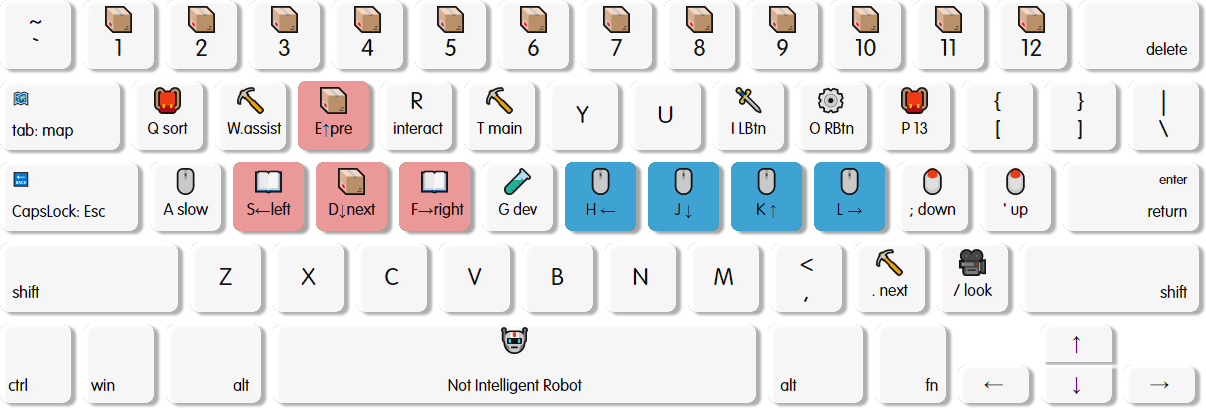
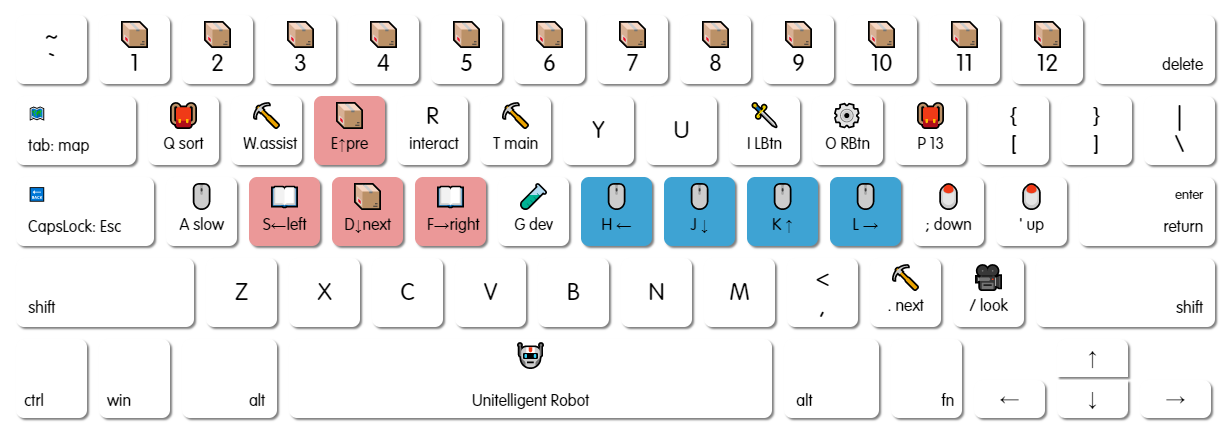
output  origin keyboard png from dom.element, and write readme

Changed region(s): [[0.0, 0.0, 1.0, 1.0], [0.0, 0.4118, 0.0614, 0.4706]]

diff --git a/README.md b/README.md
@@ -25,8 +25,8 @@ git clone https://github.com/miozus/MyTimeAtPortiaKeymap.git
    - GameSetting : write down what you set in game.
    - Keymap : `yourHotkey::function()` , you can define new function in `PortiaFuntions.ahk`
 3. Setting In Game :
-    - [x] Resolution must be `1680 * 1050` at window mode.
-    - [x] Lens inertia must be checked, for move mouse with fluent perfomance.
+   - [x] Resolution must be `1680 * 1050` at window mode.
+   - [x] Lens inertia must be checked, for move mouse with fluent perfomance.
 3. open `Portia.ahk` with Autohotkey.exe ( win32 or x64w ) , run with **Administrator privilige** if hotkey not works in game. ( usually, normal privilige is OK ).
 4. play game ( the order of launcher does not matter ).
 
@@ -34,29 +34,29 @@ git clone https://github.com/miozus/MyTimeAtPortiaKeymap.git
 
 ### 1 🏃♀ Direction
 
-Actor Move Direction:
+Actor Move 4 Directions:
 
 | | Actor| | | | Mouse | |
 |:----: | :----: | :----: | :----: | :----: | :----:| :---- |
 || <kbd>E</kbd>|||| <kbd>K</kbd>
 |<kbd>S</kbd>|<kbd>D</kbd>|<kbd>F</kbd>| | <kbd>H</kbd> | <kbd>J</kbd> | <kbd>L</kbd>
 
-Press <kbd>/</kbd> to resize actor's perspective to focus on forehead.
+Press <kbd>/</kbd> : Resize actor's perspective to focus on forehead.
 
-Hold on <kbd>A</kbd> while press mouse hotkey, to slow down mouse move speed, it performance well on bag UI.
+Hold on <kbd>A</kbd> : While press mouse hotkey, to slow down mouse move speed, it performance well on bag UI.
 
 Mouse :
 
-| from| <kbd>I</kbd>|<kbd>O</kbd> | <kbd>;</kbd> | <kbd>'</kbd>
+| From| <kbd>I</kbd>|<kbd>O</kbd> | <kbd>;</kbd> | <kbd>'</kbd>
 |:----: | :----: | :----:| :----: | :----: |
-| to |LeftButton |RightButton|Scroll down | Scroll up |
-| tips| ||ProductUI ⇒ *5 times | same
+| To |LeftButton |RightButton|Scroll down | Scroll up |
+| Tips| ||ProductUI ⇒ *5 times | the same
 
 Turn Page:
 
-Press <kbd>S</kbd> or <kbd>F</kbd> to turn page, When there are left or right button at Page UI. ( except BagUI case of poverty to release all grids )
+Press <kbd>S</kbd> / <kbd>F</kbd> :  Turn page, When there are left or right button at Page UI. ( except BagUI case of poverty to release all grids )
 
-Press <kbd>E</kbd> or <kbd>D</kbd> would depend on what `3 📦 Item Select` have done, to do previous or next action.
+Press <kbd>E</kbd> / <kbd>D</kbd> : Depend on what `3 📦 Item Selector` have done, to do previous or next action.
 
 ### 2 ⛏ Work State
 
@@ -68,42 +68,44 @@ Each state has two skills, they aim to do one work together.
 | 🐟     | Fisher | fish +5                | fish -10            | number 1~5 ⇒ feed n*35 rice                           |
 | ⛏     | Farmer | LButtonClickLoop       | seekingTreasures    | Eletic Drill prefer to use mouse or hold <kbd>I</kbd> |
 
-Press <kbd>.</kbd> to turn to next state for cycle.
+Press <kbd>.</kbd> : Turn to next state for cycle.
 
 ### 3 📦 Item Selector
 
-When different UI appears, it perfomance differently.
+When different UI appears, hotkey presents suitably itself.
 
 Default ( Outside )
 
-| Hotkey                      | MapPosition | Tips      |
-| :------                     | :------     | :------   |
-| <kbd>1</kbd> ~ <kbd>8</kbd> | [1, 1-8]    | Equipment |
+| Hotkey                      | Maping | Tips             |
+| :------                     | :------     | :------          |
+| <kbd>1</kbd> ~ <kbd>P</kbd> | ( null )      | origin key |
 
 BagUI
 
-| Hotkey                                              | MapPosition | Tips           |
+| Hotkey                                              | Maping Position | Tips           |
 | :------                                             | :------     | :------        |
 | <kbd>1</kbd> ~ <kbd>8</kbd>                         | [1-8, 1]    | 1st row        |
-| <kbd>9</kbd> <kbd>0</kbd> <kbd>-</kbd> <kbd>=</kbd> | [1-8, 2-5]  | the [2, 5] row |
-| <kbd>P</kbd>                                        | [1-8, P]    | Equipment bar  |
+| <kbd>9</kbd> <kbd>0</kbd> <kbd>-</kbd> <kbd>=</kbd> | [1-8, 2-5]  | the 2 ~ 5 row, like climb down ladder |
+| <kbd>P</kbd>                                        | [1-8, P]    | equipment bar  |
+
+Press <kbd>Q</kbd> : Quick Sort Bag and Box's Items, and hover on the center fo Box.
 
 ListUI
 
-| Hotkey                      | MapPosition | Tips |
+| Hotkey                      | Maping Position | Tips |
 | :------                     | :------     | :------ |
 | <kbd>1</kbd> ~ <kbd>8</kbd> | [1, 1-8]    | N's product       |
 
-Specially, when you hold modifier key above all, it follow secondary action.
+Specially, when you hold on modifier key above all, it follows secondary action.
 
-|Modifier       | Hotkey                      | MapPosition | Tips                                    |
+|Modifier       | Hotkey                      | Maping Position | Tips                                    |
 |:----          | :------                     | :------     | :------                                 |
 |<kbd>Ctrl</kbd>| <kbd>1</kbd> ~ <kbd>P</kbd> | [1-8, N]    | And Press Exchange ( to bag )           |
 |<kbd>Alt</kbd> | <kbd>1</kbd> ~ <kbd>P</kbd> | [1-8, N]    | And Press RightButton ( to box / actor )|
 
-### 4 🤖 Not Intelligent Robot
+### 4 🤖 Unitelligent Robot
 
-Perhaps it know what would you do next.
+> "Perhaps it knows what you do next."
 
 If you stay outside, farm or ride aircraft, it keep silent as origin key.
 
@@ -115,10 +117,11 @@ It appears at those scene:
 - Arrange food and wait for alpaca
 - Dialog choose option 1
 - Start challenge remains
+- Lead you go home by bus
 
 It feels upset sometimes, keep patient please.
 
-### 5 🧪 Devlop Tool
+### 5 🧪 Develop Tool
 
 Now you have the ability to write code to recognise the game scene, and define new function.
 
@@ -132,7 +135,7 @@ Now you have the ability to write code to recognise the game scene, and define n
 
 Design notes will be release soon.
 
-Game demo video is making.
+Game demo video cutted completed,  is making icon description or words.
 
 ## Contributing
 
